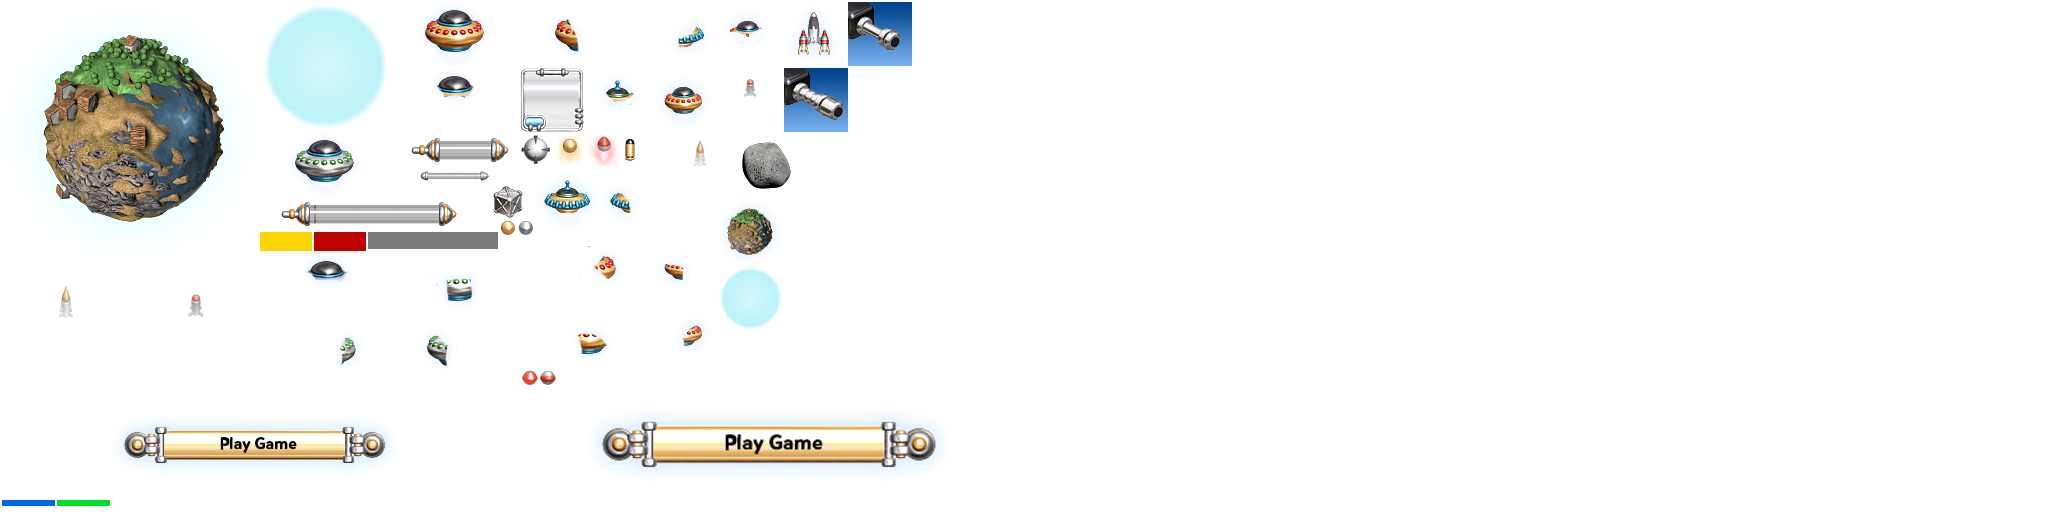
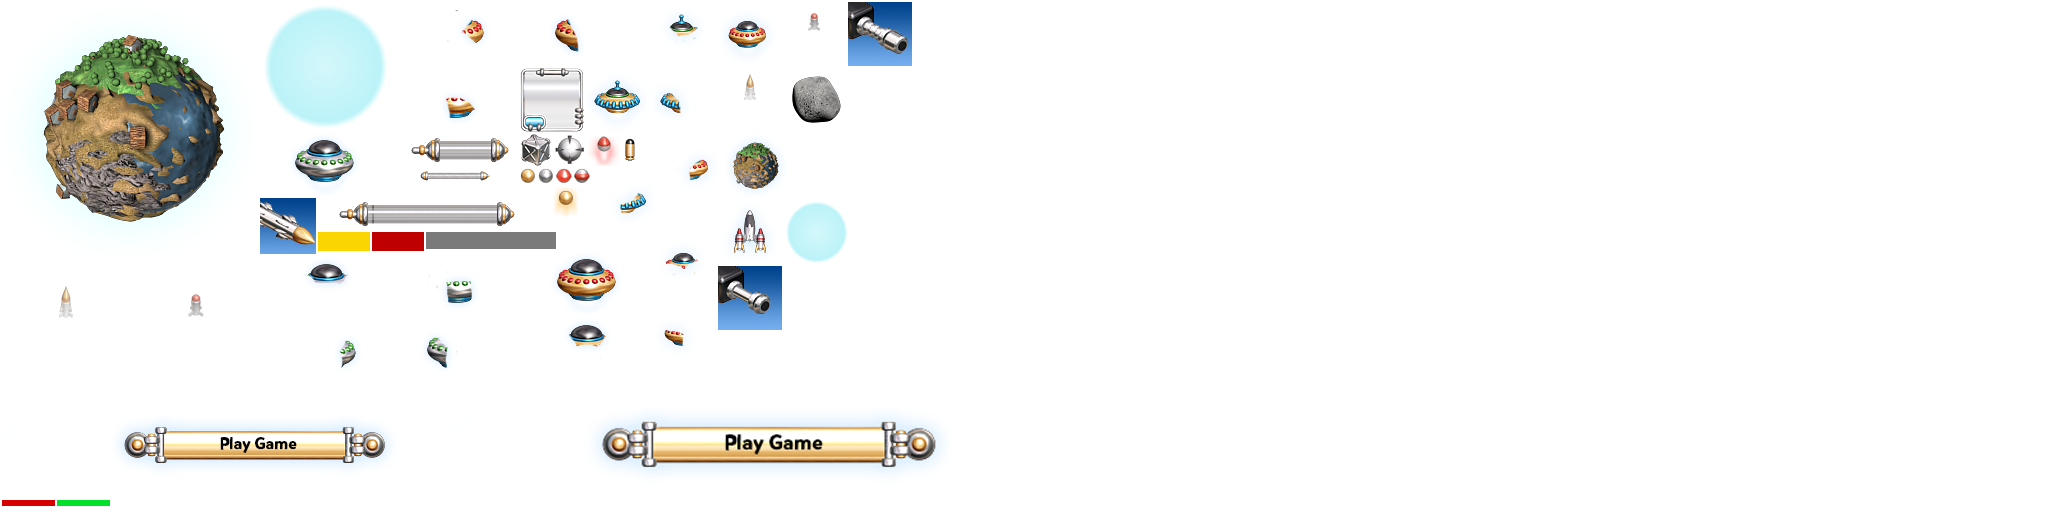
fix bug

diff --git a/js/main.js b/js/main.js
@@ -37,6 +37,9 @@ var preload = function () {
     Clash.game.load.image('background2', 'Assets/background/background2.png');
     Clash.game.load.audio('backgroundMusic', 'audio/background.mp3');
     Clash.game.load.audio('shotcannon', 'audio/shot/shotcannon.wav');
+    Clash.game.load.audio('shotrocket', 'audio/shot/shotrocket.wav');
+    Clash.game.load.audio('bonus', 'audio/bonus.wav');
+    Clash.game.load.audio('explosion', 'audio/explosion.wav');
     Clash.game.load.spritesheet('button', 'assets/playgame.png', 511, 108);
     Clash.game.load.spritesheet('kaboom', 'assets/explode.png', 128, 128);
 
@@ -49,7 +52,6 @@ var create = function () {
     Clash.game.physics.startSystem(Phaser.Physics.ARCADE);
     Clash.keyboard = Clash.game.input.keyboard;
 
-
     Clash.background = Clash.game.add.tileSprite(0, 0, 1024, 1024, 'background');
     Clash.background2 = Clash.game.add.tileSprite(400, 250, 256, 256, 'background2');
     Clash.backgroundMusic = Clash.game.add.audio('backgroundMusic');
@@ -61,10 +63,21 @@ var create = function () {
     Clash.playgame.anchor = new Phaser.Point(0.5, 0.5);
 
     Clash.killAllObject = killAllObject;
-    Clash.stateText = Clash.game.add.text(500, 300, ' ', {font: '84px Arial', fill: '#fff'});
+    Clash.stateText = Clash.game.add.text(Clash.game.height / 2, 300, ' ', {font: '84px Arial', fill: '#fff'});
     Clash.stateText.anchor.setTo(0.5, 0.5);
     Clash.stateText.visible = false;
 
+    Clash.highScore = Clash.game.add.text(Clash.game.height / 2, Clash.game.height / 2 + 120, ' ', {
+        font: '40px Arial',
+        fill: '#fff'
+    });
+    Clash.highScore.anchor.setTo(0.5, 0.5);
+
+    if (localStorage.getItem("score") == null) {
+        localStorage.setItem("score", 0);
+    }
+
+    Clash.highScore.text = "High score: " + localStorage.getItem("score");
 
 }
 
@@ -74,11 +87,15 @@ var clickPlaygame = function () {
     Clash.isPlaygame = true;
     Clash.playgame.kill();
     Clash.stateText.visible = false;
+    Clash.highScore.visible = false;
 
 }
 
 
 var createGame = function () {
+
+    Clash.musicBonus = Clash.game.add.audio('bonus');
+    Clash.musicExplosion = Clash.game.add.audio('explosion');
 
     Clash.earth = new Earth(Clash.game.height / 2, Clash.game.width / 2, "base.png", {
         health: 50
@@ -112,6 +129,8 @@ var createGame = function () {
     Clash.explosions.createMultiple(30, 'kaboom');
     Clash.explosions.forEach(setupInvader, this);
 
+    Clash.score = Clash.game.add.text(160, 360, ' ', {font: '30px Arial', fill: '#fff'});
+    Clash.score.anchor.setTo(0.5, 0.5);
 
     //Mọi công việc làm trước hàm này
     createDisplay();
@@ -141,7 +160,10 @@ var createDisplay = function () {
     Clash.display.iconEarth = createObjectDisplay({x: 70, y: 190}, "planet-small.png", true);
     Clash.display.iconShipHP = createObjectDisplay({x: 150, y: 280}, "hp-detail.png", true);
     Clash.display.iconShipXP = createObjectDisplay({x: 165, y: 310}, "xp-detail.png", true);
+    Clash.display.shipXP.scale.setTo(0, 1.5);
     Clash.display.iconShip = createObjectDisplay({x: 70, y: 280}, "player1.png", true);
+    Clash.display.iconEnemy = createObjectDisplay({x: 70, y: 360}, "ufo1-big1.png", true);
+    Clash.display.iconEnemy.scale.setTo(1, 1);
 
     Clash.display.iconMouse = createObjectDisplay({x: 70, y: 70}, "clock1.png", true);
 
@@ -186,34 +208,46 @@ var update = function () {
 
         Clash.timeSinceLastItem += Clash.game.time.physicsElapsed;
 
-        if (Clash.timeSinceLastItem >= Clash.configs.spawntimeItem && Clash.itemNumberHadEaten < Clash.configs.maxItemPowerup){
-            new ItemController("frame0000.png",{
+        if (Clash.timeSinceLastItem >= Clash.configs.spawntimeItem && Clash.itemNumberHadEaten < Clash.configs.maxItemPowerup) {
+            new ItemController("frame0000.png", {
                 health: 1,
                 type: 2
             });
             Clash.timeSinceLastItem = 0;
         }
+
+        Clash.score.text = Clash.enemiesKilled;
+    } else {
+        Clash.killAllObject();
     }
 
 }
 
 var collisionBulletAndItem = function (bulletSprite, actorSprite) {
-    var explosion = Clash.explosions.getFirstExists(false);
-    explosion.reset(actorSprite.body.x + 45, actorSprite.body.y + 45);
-    explosion.play('kaboom', 30, false, true);
-    bulletSprite.damage(1);
+    // var explosion = Clash.explosions.getFirstExists(false);
+    // explosion.reset(actorSprite.body.x + 45, actorSprite.body.y + 45);
+    // explosion.play('kaboom', 30, false, true);
+    // bulletSprite.damage(actorSprite.health);
     actorSprite.kill();
+
+    Clash.musicBonus.play();
+    Clash.player.timeSinceLastBulletPowerup = 0;
     Clash.itemNumberHadEaten++;
-    if (Clash.itemNumberHadEaten >= Clash.configs.maxItemPowerup) {
-        Clash.player.sprite.bulletType = 2;
-        Clash.display.iconPowerup.kill();
-        Clash.display.progressPowerup.kill();
+
+    if (Clash.itemNumberHadEaten > Clash.configs.maxItemPowerup) {
+        Clash.itemNumberHadEaten = Clash.configs.maxItemPowerup;
     }
 
-    if (Clash.itemNumberHadEaten == 1) {
-        Clash.display.progressPowerup = createObjectDisplay({x: 152, y: 88}, "imageProgressbar.png", false);
-        Clash.display.iconPowerup = createObjectDisplay({x: 250, y: 100}, "timeProgress.png", true);
-    }
+    Clash.display.shipXP.scale.setTo(Clash.itemNumberHadEaten * 1.5 / Clash.configs.maxItemPowerup, 1.5);
+
+    Clash.player.sprite.bulletType = 2;
+
+    Clash.display.iconPowerup.kill();
+    Clash.display.progressPowerup.kill();
+
+    Clash.display.progressPowerup = createObjectDisplay({x: 152, y: 88}, "imageProgressbar.png", false);
+    Clash.display.iconPowerup = createObjectDisplay({x: 250, y: 100}, "timeProgress.png", true);
+
 }
 
 
@@ -221,46 +255,66 @@ var collisionBulletAndActor = function (bulletSprite, actorSprite) {
     var explosion = Clash.explosions.getFirstExists(false);
     explosion.reset(actorSprite.body.x + 45, actorSprite.body.y + 45);
     explosion.play('kaboom', 30, false, true);
-    if (!bulletSprite.transparency)
-        bulletSprite.kill();
-    var actorSpriteHealth = actorSprite.health;
-    actorSprite.damage(
-        bulletSprite.bulletStrength
-    );
-    bulletSprite.damage(actorSpriteHealth);
-    Clash.enemiesKilled++;
+    Clash.musicExplosion.play();
+    if (!bulletSprite.transparency) {
+        const actorSpriteHealth = actorSprite.health;
+        actorSprite.damage(
+            bulletSprite.bulletStrength
+        );
+        bulletSprite.damage(actorSpriteHealth);
+        if (!actorSprite.alive) Clash.enemiesKilled += actorSprite.score;
+    } else {
+        Clash.enemiesKilled += actorSprite.score;
+        actorSprite.kill();
+    }
 }
 
 var collisionWithObject = function (object, actorSprite) {
     var explosion = Clash.explosions.getFirstExists(false);
     explosion.reset(actorSprite.body.x + 45, actorSprite.body.y + 45);
     explosion.play('kaboom', 30, false, true);
+    Clash.musicExplosion.play();
 
     object.damage(actorSprite.health);
     actorSprite.kill();
+    Clash.enemiesKilled += actorSprite.score;
+
 
 }
 
 var killAllObject = function () {
-    Clash.enemyGroup.forEachAlive(killObject, this);
-    Clash.playerBulletGroup.forEachAlive(killObject, this);
-    Clash.itemGroup.forEachAlive(killObject, this);
-    killObject(Clash.player.sprite);
-    killObject(Clash.display.earthHP);
-    killObject(Clash.display.earthXP);
-    killObject(Clash.display.shipHP);
-    killObject(Clash.display.shipXP);
-    killObject(Clash.display.frameWeapon);
-    killObject(Clash.display.iconEarth);
-    killObject(Clash.display.iconEarthHP);
-    killObject(Clash.display.iconEarthXP);
-    killObject(Clash.display.iconShipXP);
-    killObject(Clash.display.iconShipHP);
-    killObject(Clash.display.weapon);
-    killObject(Clash.display.iconShip);
-    killObject(Clash.display.iconMouse);
-    killObject(Clash.display.iconPowerup);
-    killObject(Clash.display.progressPowerup);
+    try {
+        Clash.enemyGroup.forEachAlive(killObject, this);
+        Clash.playerBulletGroup.forEachAlive(killObject, this);
+        Clash.itemGroup.forEachAlive(killObject, this);
+        killObject(Clash.player.sprite);
+        killObject(Clash.display.earthHP);
+        killObject(Clash.display.earthXP);
+        killObject(Clash.display.shipHP);
+        killObject(Clash.display.shipXP);
+        killObject(Clash.display.frameWeapon);
+        killObject(Clash.display.iconEarth);
+        killObject(Clash.display.iconEarthHP);
+        killObject(Clash.display.iconEarthXP);
+        killObject(Clash.display.iconShipXP);
+        killObject(Clash.display.iconShipHP);
+        killObject(Clash.display.weapon);
+        killObject(Clash.display.iconShip);
+        killObject(Clash.display.iconMouse);
+        killObject(Clash.display.iconPowerup);
+        killObject(Clash.display.progressPowerup);
+        killObject(Clash.display.iconEnemy);
+        Clash.score.visible = false;
+        Clash.highScore.visible = true;
+
+        if (Clash.enemiesKilled > localStorage.getItem("score")) {
+            localStorage.setItem("score", Clash.enemiesKilled);
+            Clash.highScore.text = "New high score: " + localStorage.getItem("score");
+        } else {
+            Clash.highScore.text = "High score: " + localStorage.getItem("score");
+        }
+    } catch (err) {
+    }
 }
 
 var killObject = function (object) {

diff --git a/js/ShipController.js b/js/ShipController.js
@@ -32,24 +32,30 @@ class ShipController {
     }
 
     update() {
-        if ((Clash.itemNumberHadEaten >= 4 || Clash.itemNumberHadEaten == 1 ) || (this.timeSinceLastBulletPowerup < Clash.configs.timeBulletPowerup && this.timeSinceLastBulletPowerup != 0)) {
-            this.sprite.bulletType = 2;
-            this.timeSinceLastBulletPowerup += Clash.game.time.physicsElapsed;
-        }
-        if (Clash.itemNumberHadEaten >= 2 && Clash.itemNumberHadEaten < 4 && this.timeSinceLastBulletPowerup >= Clash.configs.timeBulletPowerup)
-            this.sprite.bulletType = 1;
 
-        if (Clash.itemNumberHadEaten >= 1 && Clash.itemNumberHadEaten < 4) {
+        if (Clash.itemNumberHadEaten < Clash.configs.maxItemPowerup) {
+            this.timeSinceLastBulletPowerup += Clash.game.time.physicsElapsed;
             Clash.display.progressPowerup.scale.setTo((Clash.configs.timeBulletPowerup - this.timeSinceLastBulletPowerup ) * 1.5 / Clash.configs.timeBulletPowerup, 1.5);
             if (this.timeSinceLastBulletPowerup >= Clash.configs.timeBulletPowerup) {
                 this.sprite.bulletType = 1;
-                // this.timeSinceLastBulletPowerup = 0;
+                this.timeSinceLastBulletPowerup = 0;
                 Clash.display.iconPowerup.kill();
                 Clash.display.progressPowerup.kill();
-
             }
+        } else {
+            this.sprite.bulletType = 2;
+            Clash.display.iconPowerup.kill();
+            Clash.display.progressPowerup.kill();
         }
 
+        switch (this.sprite.bulletType){
+            case 1:
+                Clash.display.weapon.frameName = 'cannon1.jpg';
+                break;
+            case 2:
+                Clash.display.weapon.frameName = 'rocket2.jpg';
+                break;
+        }
 
         this.playerRevival();
 

diff --git a/js/Earth.js b/js/Earth.js
@@ -25,10 +25,9 @@ class Earth {
 
     update() {
         if (this.sprite.health <= 0) {this.sprite.health = 0;
-          Clash.playgame.reset(Clash.game.height / 2, Clash.game.width / 2);
+          Clash.playgame.reset(Clash.game.height / 2, 800);
           Clash.isPlaygame = false;
-          Clash.killAllObject();
-          Clash.stateText.text = " Game over";
+          Clash.stateText.text = "Game over";
           Clash.stateText.visible = true;
         }
         Clash.display.earthHP.scale.setTo(this.sprite.health * 1.5 / this.configs.health, 1.5);

diff --git a/js/BulletExtend/BulletControllerType1.js b/js/BulletExtend/BulletControllerType1.js
@@ -7,11 +7,10 @@ class BulletControllerType1 extends BulletController {
             Clash.playerBulletGroup,
             {
                 bulletSpeed: 500,
-                imageWeapon: 'cannon1.jpg',
                 nameMusic: 'shotcannon',
                 radius: 13,
                 transparency: false,
-                bulletStrength : Clash.itemNumberHadEaten+1
+                bulletStrength: Clash.itemNumberHadEaten + 1
             }
         );
     }

diff --git a/js/EnemyExtend/EnemyController.js b/js/EnemyExtend/EnemyController.js
@@ -15,6 +15,7 @@ class EnemyController {
         this.sprite.body.setCircle(this.configs.radius, this.sprite.width / 2 - this.configs.radius,
             this.sprite.height / 2 - this.configs.radius);
         this.sprite.health = this.configs.health;
+        this.sprite.score = this.configs.score;
         Clash.game.physics.arcade.moveToObject(this.sprite, Clash.earth.sprite, this.configs.enemySpeed);
         this.sprite.scale.setTo(1.5, 1.5);
     }

diff --git a/js/BulletExtend/BulletController.js b/js/BulletExtend/BulletController.js
@@ -20,7 +20,7 @@ class BulletController {
         this.sprite.rotation = Clash.game.physics.arcade.angleToPointer(this.sprite) + Math.PI / 2;
 
         Clash.game.physics.arcade.moveToPointer(this.sprite, config.bulletSpeed);
-        Clash.display.weapon.frameName = config.imageWeapon;
+
 
         this.sprite.music = Clash.game.add.audio(config.nameMusic);
         this.sprite.music.play();

diff --git a/js/BulletExtend/BulletControllerType2.js b/js/BulletExtend/BulletControllerType2.js
@@ -7,8 +7,7 @@ class BulletControllerType2 extends BulletController {
             Clash.playerBulletGroup,
             {
                 bulletSpeed: 1000,
-                imageWeapon: 'cannon2.jpg',
-                nameMusic: 'shotcannon',
+                nameMusic: 'shotrocket',
                 radius: 20,
                 transparency: true,
                 bulletStrength: 100

diff --git a/js/EnemyExtend/EnemyUfo1Small1.js b/js/EnemyExtend/EnemyUfo1Small1.js
@@ -5,7 +5,8 @@ class EnemyUfo1Small1 extends EnemyController {
             {
                 health: 1,
                 enemySpeed: 50,
-                radius: 25
+                radius: 25,
+                score: 1,
             }
         );
     }

diff --git a/js/EnemyExtend/EnemyUfo1Big2.js b/js/EnemyExtend/EnemyUfo1Big2.js
@@ -5,7 +5,8 @@ class EnemyUfo1Big2 extends EnemyController {
             {
                 health: 2,
                 enemySpeed: 30,
-                radius: 40
+                radius: 40,
+                score: 2,
             }
         );
     }
